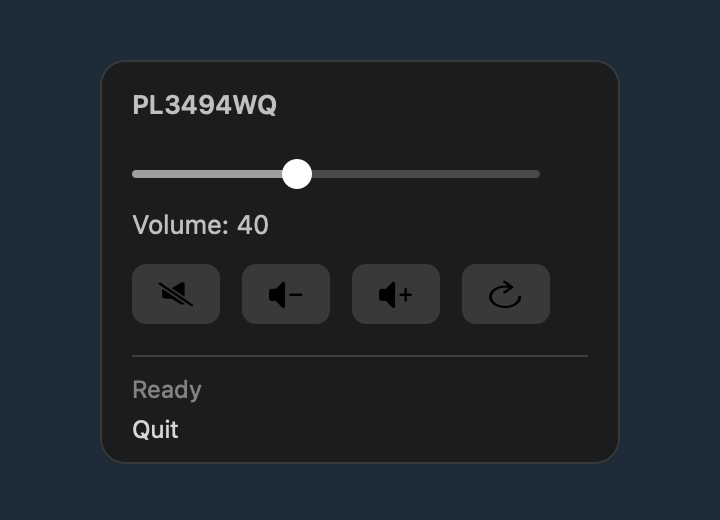
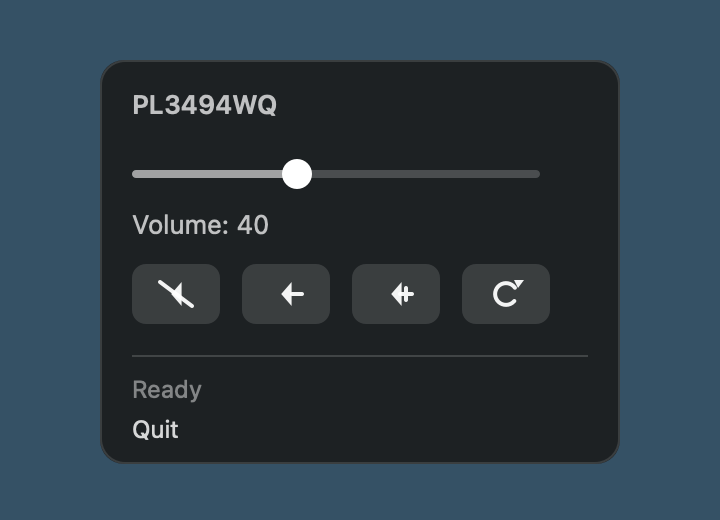
Improve screenshot contrast

diff --git a/Tools/GenerateScreenshots.swift b/Tools/GenerateScreenshots.swift
@@ -51,12 +51,88 @@ func text(_ string: String, at point: NSPoint, size: CGFloat = 13, weight: NSFon
 }
 
 func symbol(_ name: String, in rect: NSRect, color: NSColor = .labelColor) {
-    guard let image = NSImage(systemSymbolName: name, accessibilityDescription: nil) else { return }
-    image.isTemplate = true
-    NSGraphicsContext.saveGraphicsState()
-    color.set()
-    image.draw(in: rect)
-    NSGraphicsContext.restoreGraphicsState()
+    color.setStroke()
+    color.setFill()
+
+    func speakerShape() {
+        let p = NSBezierPath()
+        p.move(to: NSPoint(x: rect.minX + rect.width * 0.16, y: rect.midY))
+        p.line(to: NSPoint(x: rect.minX + rect.width * 0.38, y: rect.midY))
+        p.line(to: NSPoint(x: rect.minX + rect.width * 0.64, y: rect.maxY - 2))
+        p.line(to: NSPoint(x: rect.minX + rect.width * 0.64, y: rect.minY + 2))
+        p.line(to: NSPoint(x: rect.minX + rect.width * 0.38, y: rect.midY))
+        p.close()
+        p.fill()
+    }
+
+    switch name {
+    case "display":
+        let screen = NSBezierPath(roundedRect: NSRect(x: rect.minX + 1, y: rect.minY + 4, width: rect.width - 2, height: rect.height - 6), xRadius: 1.5, yRadius: 1.5)
+        screen.lineWidth = 1.4
+        screen.stroke()
+        let stand = NSBezierPath()
+        stand.lineWidth = 1.2
+        stand.move(to: NSPoint(x: rect.midX, y: rect.minY + 4))
+        stand.line(to: NSPoint(x: rect.midX, y: rect.minY + 1))
+        stand.move(to: NSPoint(x: rect.midX - 4, y: rect.minY + 1))
+        stand.line(to: NSPoint(x: rect.midX + 4, y: rect.minY + 1))
+        stand.stroke()
+    case "wifi":
+        for radius in [7.0, 4.5] {
+            let arc = NSBezierPath()
+            arc.lineWidth = 1.6
+            arc.appendArc(withCenter: NSPoint(x: rect.midX, y: rect.minY + 3), radius: radius, startAngle: 40, endAngle: 140)
+            arc.stroke()
+        }
+        NSBezierPath(ovalIn: NSRect(x: rect.midX - 1.3, y: rect.minY + 2, width: 2.6, height: 2.6)).fill()
+    case "moon.fill":
+        NSBezierPath(ovalIn: rect.insetBy(dx: 2, dy: 1)).fill()
+        NSColor(calibratedRed: 0.09, green: 0.16, blue: 0.22, alpha: 1).setFill()
+        NSBezierPath(ovalIn: rect.offsetBy(dx: 5, dy: 2).insetBy(dx: 2, dy: 1)).fill()
+    case "speaker.slash.fill":
+        speakerShape()
+        let slash = NSBezierPath()
+        slash.lineWidth = 2
+        slash.lineCapStyle = .round
+        slash.move(to: NSPoint(x: rect.minX + 2, y: rect.maxY - 2))
+        slash.line(to: NSPoint(x: rect.maxX - 2, y: rect.minY + 2))
+        slash.stroke()
+    case "speaker.minus.fill":
+        speakerShape()
+        let minus = NSBezierPath()
+        minus.lineWidth = 2
+        minus.lineCapStyle = .round
+        minus.move(to: NSPoint(x: rect.maxX - 7, y: rect.midY))
+        minus.line(to: NSPoint(x: rect.maxX - 2, y: rect.midY))
+        minus.stroke()
+    case "speaker.plus.fill":
+        speakerShape()
+        let plus = NSBezierPath()
+        plus.lineWidth = 2
+        plus.lineCapStyle = .round
+        plus.move(to: NSPoint(x: rect.maxX - 8, y: rect.midY))
+        plus.line(to: NSPoint(x: rect.maxX - 2, y: rect.midY))
+        plus.move(to: NSPoint(x: rect.maxX - 5, y: rect.midY - 3))
+        plus.line(to: NSPoint(x: rect.maxX - 5, y: rect.midY + 3))
+        plus.stroke()
+    case "arrow.clockwise":
+        let arc = NSBezierPath()
+        arc.lineWidth = 2
+        arc.lineCapStyle = .round
+        arc.appendArc(withCenter: rect.center, radius: min(rect.width, rect.height) * 0.34, startAngle: 35, endAngle: 320)
+        arc.stroke()
+        let arrow = NSBezierPath()
+        arrow.move(to: NSPoint(x: rect.maxX - 4, y: rect.midY + 3))
+        arrow.line(to: NSPoint(x: rect.maxX - 1, y: rect.midY + 7))
+        arrow.line(to: NSPoint(x: rect.maxX - 6, y: rect.midY + 7))
+        arrow.fill()
+    default:
+        NSBezierPath(ovalIn: rect.insetBy(dx: 4, dy: 4)).fill()
+    }
+}
+
+extension NSRect {
+    var center: NSPoint { NSPoint(x: midX, y: midY) }
 }
 
 func drawMenuBarBadge(x: CGFloat, y: CGFloat) {
@@ -86,7 +162,7 @@ func drawDropdown(origin: NSPoint, width: CGFloat = 260) {
     for (index, name) in buttonSymbols.enumerated() {
         let x = origin.x + 16 + CGFloat(index) * 55
         roundedRect(NSRect(x: x, y: buttonY, width: 44, height: 30), radius: 7, color: .white.withAlphaComponent(0.13))
-        symbol(name, in: NSRect(x: x + 12, y: buttonY + 7, width: 20, height: 16), color: .white.withAlphaComponent(0.88))
+        symbol(name, in: NSRect(x: x + 12, y: buttonY + 7, width: 20, height: 16), color: .white.withAlphaComponent(0.94))
     }
 
     NSColor.white.withAlphaComponent(0.16).setStroke()
@@ -99,10 +175,10 @@ func drawDropdown(origin: NSPoint, width: CGFloat = 260) {
     text("Quit", at: NSPoint(x: origin.x + 16, y: origin.y + 10), size: 12, color: .white.withAlphaComponent(0.82))
 }
 
-let hero = try withBitmap(width: 1040, height: 580) { width, height in
+let hero = try withBitmap(width: 880, height: 420) { width, height in
     let gradient = NSGradient(colors: [
-        NSColor(calibratedRed: 0.08, green: 0.36, blue: 0.55, alpha: 1),
-        NSColor(calibratedRed: 0.07, green: 0.09, blue: 0.12, alpha: 1)
+        NSColor(calibratedRed: 0.18, green: 0.40, blue: 0.53, alpha: 1),
+        NSColor(calibratedRed: 0.09, green: 0.16, blue: 0.22, alpha: 1)
     ])!
     gradient.draw(in: NSRect(x: 0, y: 0, width: width, height: height), angle: 90)
 
@@ -111,20 +187,20 @@ let hero = try withBitmap(width: 1040, height: 580) { width, height in
     text("File", at: NSPoint(x: 78, y: height - 22), size: 13, color: .white.withAlphaComponent(0.72))
     text("Edit", at: NSPoint(x: 120, y: height - 22), size: 13, color: .white.withAlphaComponent(0.72))
 
-    drawMenuBarBadge(x: width - 222, y: height - 23)
-    symbol("wifi", in: NSRect(x: width - 162, y: height - 22, width: 17, height: 17), color: .white.withAlphaComponent(0.86))
-    symbol("moon.fill", in: NSRect(x: width - 126, y: height - 22, width: 15, height: 15), color: .white.withAlphaComponent(0.86))
-    text("16:04", at: NSPoint(x: width - 84, y: height - 22), size: 13, weight: .medium, color: .white.withAlphaComponent(0.86))
+    drawMenuBarBadge(x: width - 268, y: height - 23)
+    symbol("wifi", in: NSRect(x: width - 206, y: height - 22, width: 17, height: 17), color: .white.withAlphaComponent(0.86))
+    symbol("moon.fill", in: NSRect(x: width - 170, y: height - 22, width: 15, height: 15), color: .white.withAlphaComponent(0.86))
+    text("16:04", at: NSPoint(x: width - 128, y: height - 22), size: 13, weight: .medium, color: .white.withAlphaComponent(0.86))
 
-    drawDropdown(origin: NSPoint(x: width - 310, y: height - 238), width: 260)
+    drawDropdown(origin: NSPoint(x: width - 356, y: height - 247), width: 260)
 
-    text("knob", at: NSPoint(x: 84, y: 220), size: 42, weight: .bold, color: .white)
-    text("A tiny menu bar volume control for monitor speakers.", at: NSPoint(x: 86, y: 188), size: 18, color: .white.withAlphaComponent(0.72))
+    text("knob", at: NSPoint(x: 58, y: 74), size: 30, weight: .bold, color: .white.withAlphaComponent(0.94))
+    text("Monitor volume, back in the menu bar.", at: NSPoint(x: 60, y: 51), size: 14, color: .white.withAlphaComponent(0.64))
 }
 try write(hero, to: "knob-hero.png")
 
 let menu = try withBitmap(width: 360, height: 260) { width, height in
-    NSColor(calibratedRed: 0.09, green: 0.13, blue: 0.17, alpha: 1).setFill()
+    NSColor(calibratedRed: 0.16, green: 0.25, blue: 0.32, alpha: 1).setFill()
     NSRect(x: 0, y: 0, width: width, height: height).fill()
     drawDropdown(origin: NSPoint(x: 50, y: 28), width: 260)
 }
